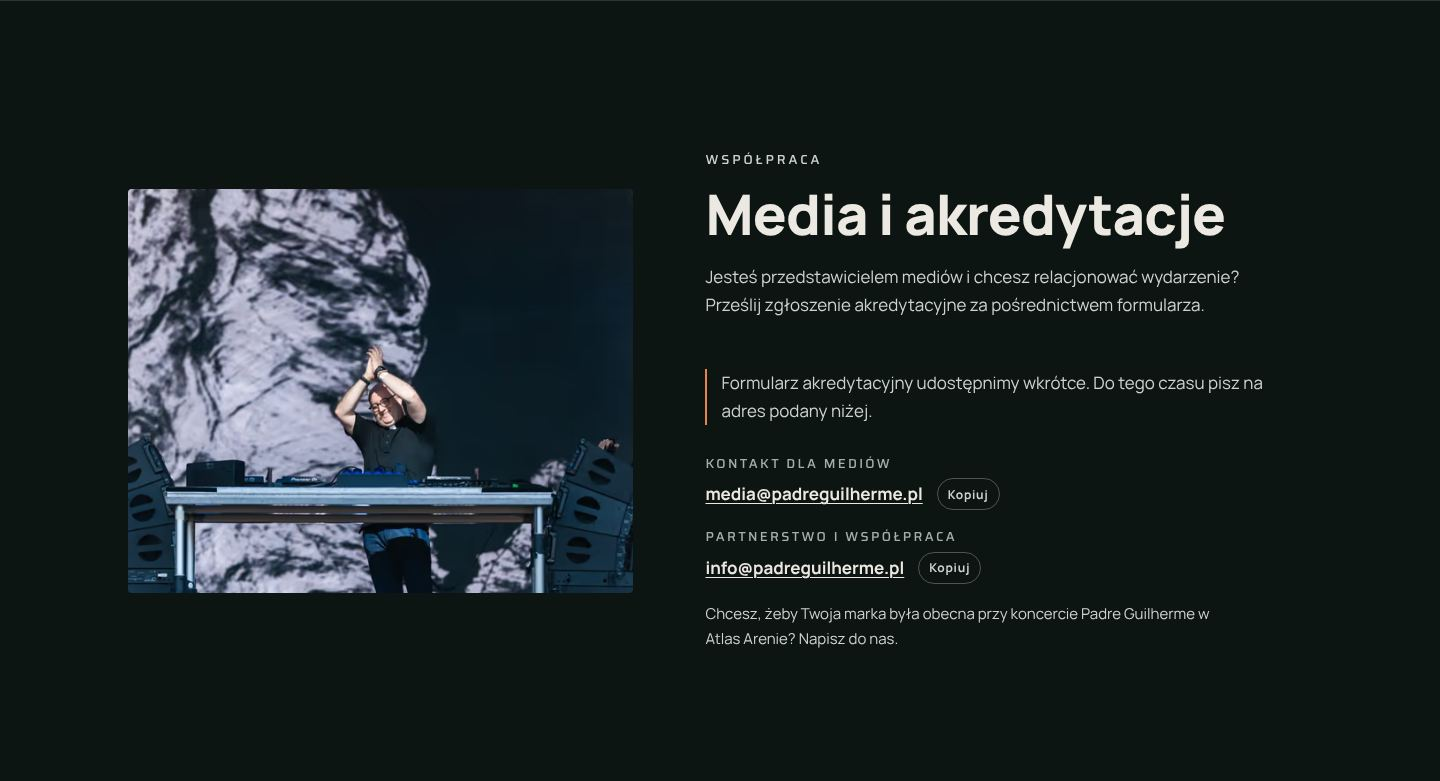
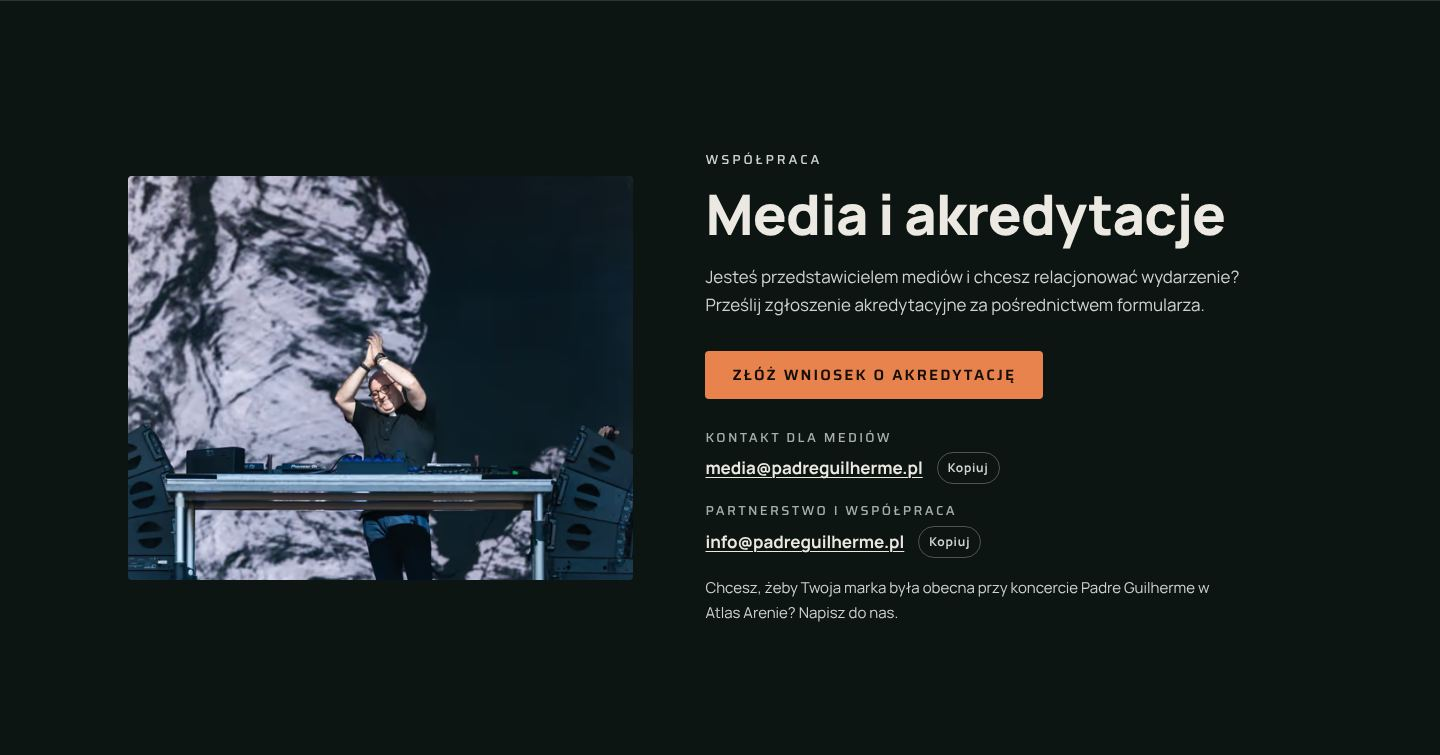
Usunięcie sekcji „Polska już go zna”, włączenie przycisku akredytacji
- sekcja „Polska już go zna. Teraz czas na Łódź.” usunięta w całości
  (szablon, style, konfiguracja, testy, dokumentacja)
- karta TikToka „Pan jest pasterzem moim”: podpis „Polska” bez nazw innych miast
- przycisk „Złóż wniosek o akredytację” z adresem
  www.pressaccreditations.com/pl/live2listen/padreguilherme, wpisany też w HTML
- raport i lista do potwierdzenia: formularz akredytacyjny musi działać przed publikacją

Claude-Session: https://claude.ai/code/session_01VWmRaWMyJhCKSyv75ZwcSc

diff --git a/index.html b/index.html
@@ -30,10 +30,10 @@
 <link rel="preload" href="assets/fonts/saira-latin.woff2" as="font" type="font/woff2" crossorigin>
 <link rel="preload" as="image" type="image/avif" imagesrcset="assets/img/hero-m-600.avif 600w, assets/img/hero-m-900.avif 900w, assets/img/hero-m-1200.avif 1200w" imagesizes="100vw" media="(max-width: 767px)" fetchpriority="high">
 <link rel="preload" as="image" type="image/avif" imagesrcset="assets/img/hero-960.avif 960w, assets/img/hero-1440.avif 1440w, assets/img/hero-1920.avif 1920w, assets/img/hero-2400.avif 2400w" imagesizes="100vw" media="(min-width: 768px)" fetchpriority="high">
-<link rel="stylesheet" href="assets/css/main.css?v=6b5c88da">
-<script src="assets/js/config.js?v=7d36cf71"></script>
+<link rel="stylesheet" href="assets/css/main.css?v=f46b392a">
+<script src="assets/js/config.js?v=50055b27"></script>
 <script>document.documentElement.classList.add('js');setTimeout(function(){if(!window.__pgReady)document.documentElement.classList.remove('js');},3000);</script>
-<script src="assets/js/main.js?v=352018d3" defer></script>
+<script src="assets/js/main.js?v=a545f683" defer></script>
 <script type="application/ld+json">{"@context":"https://schema.org","@type":"MusicEvent","name":"Padre Guilherme — Love is My Religion | Atlas Arena, Łódź","description":"Koncert Padre Guilherme w Atlas Arenie w Łodzi. Support: Skytech.","startDate":"2027-02-14","eventStatus":"https://schema.org/EventScheduled","eventAttendanceMode":"https://schema.org/OfflineEventAttendanceMode","url":"https://padreguilherme.pl/","image":["https://padreguilherme.pl/assets/og-image.jpg","https://padreguilherme.pl/assets/img/hero-1920.jpg"],"location":{"@type":"Place","name":"Atlas Arena","address":{"@type":"PostalAddress","streetAddress":"al. Bandurskiego 7","postalCode":"94-020","addressLocality":"Łódź","addressCountry":"PL"}},"performer":[{"@type":"Person","name":"Padre Guilherme","sameAs":["https://www.instagram.com/padre.guilherme/","https://www.tiktok.com/@padreguilherme","https://www.youtube.com/channel/UC8fYSaK9MMAvDmWIOZ2r1Yw","https://open.spotify.com/artist/7Gl7M2tjlIWsDWYa061TWh"]},{"@type":"Person","name":"Skytech","url":"http://skytechmusic.com"}],"organizer":{"@type":"Organization","name":"Live2Listen","url":"https://www.live2listen.com"}}</script>
 </head>
 <body>
@@ -159,8 +159,8 @@
       </li>
       <li class="viral__item reveal" style="--i:4">
         <a class="viral__card viral__card--pl" href="https://www.tiktok.com/@padreguilherme/video/7650860801443499297" target="_blank" rel="noopener" data-media="tiktok-polska">
-          <span class="viral__thumb"><picture><source type="image/avif" srcset="assets/img/tiktok-polska-270.avif 270w, assets/img/tiktok-polska-540.avif 540w" sizes="(min-width: 1200px) 200px, (min-width: 768px) 30vw, 46vw"><img src="assets/img/tiktok-polska-540.jpg" srcset="assets/img/tiktok-polska-270.jpg 270w, assets/img/tiktok-polska-540.jpg 540w" sizes="(min-width: 1200px) 200px, (min-width: 768px) 30vw, 46vw" width="540" height="960" alt="Kadr z nagrania: publiczność pod sceną podczas występu Padre Guilherme na ING Silesia Beats w Chorzowie" loading="lazy" decoding="async"></picture><span class="play" aria-hidden="true"><svg class="icon" aria-hidden="true" width="14" height="14" viewBox="0 0 24 24" fill="currentColor"><path d="M7 4.5v15l13-7.5z"/></svg></span></span>
-          <span class="viral__meta"><span class="viral__place">„Pan jest pasterzem moim”</span><span class="viral__where">ING Silesia Beats, Chorzów</span><span class="viral__views"><span data-count="12.4">12,4</span> mln wyświetleń</span></span>
+          <span class="viral__thumb"><picture><source type="image/avif" srcset="assets/img/tiktok-polska-270.avif 270w, assets/img/tiktok-polska-540.avif 540w" sizes="(min-width: 1200px) 200px, (min-width: 768px) 30vw, 46vw"><img src="assets/img/tiktok-polska-540.jpg" srcset="assets/img/tiktok-polska-270.jpg 270w, assets/img/tiktok-polska-540.jpg 540w" sizes="(min-width: 1200px) 200px, (min-width: 768px) 30vw, 46vw" width="540" height="960" alt="Kadr z nagrania: publiczność pod sceną podczas koncertu Padre Guilherme w Polsce" loading="lazy" decoding="async"></picture><span class="play" aria-hidden="true"><svg class="icon" aria-hidden="true" width="14" height="14" viewBox="0 0 24 24" fill="currentColor"><path d="M7 4.5v15l13-7.5z"/></svg></span></span>
+          <span class="viral__meta"><span class="viral__place">„Pan jest pasterzem moim”</span><span class="viral__where">Polska</span><span class="viral__views"><span data-count="12.4">12,4</span> mln wyświetleń</span></span>
           <span class="visually-hidden">(TikTok, otwiera się w nowej karcie)</span>
         </a>
       </li>
@@ -639,10 +639,9 @@
       <h2 class="h2 reveal" id="media-title">Media i akredytacje</h2>
       <p class="reveal">Jesteś przedstawicielem mediów i chcesz relacjonować wydarzenie? Prześlij zgłoszenie akredytacyjne za pośrednictwem formularza.</p>
       <div class="cta-row reveal">
-        <a class="btn btn--primary" href="#media" data-accreditation hidden>Złóż wniosek o akredytację</a>
+        <a class="btn btn--primary" href="https://www.pressaccreditations.com/pl/live2listen/padreguilherme" target="_blank" rel="noopener" data-accreditation>Złóż wniosek o akredytację</a>
         <a class="btn btn--ghost" href="#media" data-presskit hidden target="_blank" rel="noopener">Pobierz press pack</a>
       </div>
-      <p class="media__pending reveal" data-accreditation-pending>Formularz akredytacyjny udostępnimy wkrótce. Do tego czasu pisz na adres podany niżej.</p>
       <dl class="contacts reveal">
         <div><dt>Kontakt dla mediów</dt><dd><a href="mailto:media@padreguilherme.pl">media@padreguilherme.pl</a> <button class="copy" type="button" data-copy="media@padreguilherme.pl">Kopiuj</button></dd></div>
         <div><dt>Partnerstwo i współpraca</dt><dd><a href="mailto:info@padreguilherme.pl">info@padreguilherme.pl</a> <button class="copy" type="button" data-copy="info@padreguilherme.pl">Kopiuj</button></dd></div>

diff --git a/src/index.html b/src/index.html
@@ -195,40 +195,6 @@
   </div>
 </section>
 
-<!-- POLSKA (komponent gotowy, publikowany po zatwierdzeniu) -->
-<section class="section poland" id="polska" aria-labelledby="poland-title" data-section="poland" hidden>
-  <div class="wrap">
-    <p class="preview-note note-box">Sekcja przygotowana, domyślnie wyłączona (<code>sections.poland</code>). Brakuje zatwierdzonych zdjęć z polskich koncertów, a wcześniej padła decyzja, by komunikować wyłącznie Łódź. Podpisy oparte na źródłach z arkusza „Padre w Polsce”.</p>
-    <div class="section-head">
-      <div>
-        <p class="kicker reveal">Padre Guilherme w Polsce</p>
-        <h2 class="h2 reveal" id="poland-title">Polska już go zna. Teraz czas na Łódź.</h2>
-      </div>
-      <p class="section-head__aside reveal">W 2026 roku Padre Guilherme zagrał w Chorzowie, Gdańsku i Opolu. 14 lutego 2027 roku wraca do Polski z koncertem w Atlas Arenie.</p>
-    </div>
-    <ul class="poland__grid">
-      <li class="poland__item poland__item--big reveal">
-        <figure>
-          <div class="poland__photo" data-photo-slot>Miejsce na zatwierdzone zdjęcie</div>
-          <figcaption><span class="poland__city">Chorzów</span><span class="poland__event">ING Silesia Beats</span><span class="poland__year">2026</span></figcaption>
-        </figure>
-      </li>
-      <li class="poland__item reveal">
-        <figure>
-          <div class="poland__photo" data-photo-slot>Miejsce na zatwierdzone zdjęcie</div>
-          <figcaption><span class="poland__city">Gdańsk</span><span class="poland__event">Prosta Droga do Boga, ERGO Arena</span><span class="poland__year">2026</span></figcaption>
-        </figure>
-      </li>
-      <li class="poland__item reveal">
-        <figure>
-          <div class="poland__photo" data-photo-slot>Miejsce na zatwierdzone zdjęcie</div>
-          <figcaption><span class="poland__city">Opole</span><span class="poland__event">Itaka Arena</span><span class="poland__year">2026</span></figcaption>
-        </figure>
-      </li>
-    </ul>
-  </div>
-</section>
-
 <!-- GALERIA EDYTORSKA -->
 <section class="section gallery" id="galeria" aria-labelledby="gallery-title">
   <div class="wrap">
@@ -421,7 +387,7 @@
         <a class="btn btn--ghost" href="#media" data-presskit hidden target="_blank" rel="noopener">Pobierz press pack</a>
       </div>
       <p class="media__pending reveal" data-accreditation-pending>Formularz akredytacyjny udostępnimy wkrótce. Do tego czasu pisz na adres podany niżej.</p>
-      <p class="preview-note note-box">Akredytacje: adres pressaccreditations.com/pl/live2listen/padreguilherme 11.10.2026 zwracał błąd certyfikatu i HTTP 404 — przycisk ukryty do czasu potwierdzenia. Press pack: brak zatwierdzonego pliku.</p>
+      <p class="preview-note note-box">Akredytacje: adres potwierdzony przez zespół (www.pressaccreditations.com/pl/live2listen/padreguilherme). 11.10.2026 strona jeszcze nie działała: certyfikat TLS nie pasuje do domeny, HTTP 404. Musi działać przed publikacją. Press pack: brak zatwierdzonego pliku, przycisk ukryty.</p>
       <dl class="contacts reveal">
         <div><dt>Kontakt dla mediów</dt><dd><a href="mailto:media@padreguilherme.pl">media@padreguilherme.pl</a> <button class="copy" type="button" data-copy="media@padreguilherme.pl">Kopiuj</button></dd></div>
         <div><dt>Partnerstwo i współpraca</dt><dd><a href="mailto:info@padreguilherme.pl">info@padreguilherme.pl</a> <button class="copy" type="button" data-copy="info@padreguilherme.pl">Kopiuj</button></dd></div>

diff --git a/assets/css/main.css b/assets/css/main.css
@@ -359,22 +359,6 @@ a:hover .play, a:focus-visible .play { background: var(--accent); color: var(--i
 .expander__inner > :last-child { margin-bottom: 22px; }
 .no-anim .expander__panel, .no-anim .acc__panel { transition: none; }
 
-/* ==== Polska ==== */
-.poland__grid { display: grid; gap: 16px; grid-template-columns: repeat(2, minmax(0, 1fr)); }
-.poland__item--big { grid-column: 1 / -1; }
-.poland__item figure { margin: 0; }
-.poland__photo { display: flex; align-items: center; justify-content: center; aspect-ratio: 4 / 3; padding: 16px; border: 1px dashed var(--line-2); border-radius: var(--radius); color: var(--fg-3); font-size: 0.8125rem; text-align: center; background: var(--bg-2); }
-.poland__item figcaption { display: flex; flex-wrap: wrap; gap: 4px 12px; margin-top: 10px; font-family: var(--f-display); font-size: 0.8125rem; letter-spacing: 0.14em; text-transform: uppercase; }
-.poland__city { color: var(--fg); font-weight: 600; }
-.poland__event { color: var(--fg-3); }
-.poland__year { color: var(--accent); }
-@media (min-width: 960px) {
-  .poland__grid { grid-template-columns: minmax(0, 7fr) minmax(0, 5fr); grid-template-rows: auto auto; }
-  .poland__item--big { grid-column: 1; grid-row: 1 / span 2; }
-  .poland__item--big figure { height: 100%; display: flex; flex-direction: column; }
-  .poland__item--big .poland__photo { aspect-ratio: auto; flex: 1; min-height: 360px; }
-}
-
 /* ==== Galeria edytorska ==== */
 .gallery__grid { display: grid; grid-template-columns: repeat(2, minmax(0, 1fr)); gap: 10px; }
 .gallery__item { min-width: 0; }
@@ -627,7 +611,6 @@ a:hover .play, a:focus-visible .play { background: var(--accent); color: var(--i
 .note-box::before { content: 'Do potwierdzenia · '; font-weight: 800; letter-spacing: 0.04em; }
 .preview-bar { position: relative; z-index: 60; padding: 10px var(--gutter); background: var(--warn); color: #241A00; font-size: 0.8125rem; line-height: 1.45; text-align: center; }
 .is-preview .preview-bar { display: block; }
-.is-preview .poland .note-box { margin: 0 0 32px; }
 
 /* ==== Ograniczony ruch ==== */
 @media (prefers-reduced-motion: reduce) {

diff --git a/assets/js/config.js b/assets/js/config.js
@@ -13,10 +13,11 @@ window.PADRE_CONFIG = {
   // Dopisuje utm_* z adresu strony do linku eBilet (atrybucja kampanii po stronie sprzedawcy).
   passUtmToTicketUrl: true,
 
-  // Press Accreditations (Live2Listen). 11.10.2026 adres zwracał błąd certyfikatu TLS i HTTP 404,
-  // dlatego przycisk jest wyłączony. Po potwierdzeniu działania ustaw accreditationReady: true.
+  // Press Accreditations (Live2Listen) — adres potwierdzony przez zespół projektu.
+  // 11.10.2026 strona jeszcze nie działała (certyfikat TLS nie pasuje do domeny, HTTP 404):
+  // przed publikacją sprawdź, czy formularz jest dostępny. accreditationReady: false ukrywa przycisk.
   accreditationUrl: 'https://www.pressaccreditations.com/pl/live2listen/padreguilherme',
-  accreditationReady: false,
+  accreditationReady: true,
 
   // Zatwierdzony press pack (PDF lub folder). Przycisk pojawi się dopiero po wpisaniu adresu.
   pressPackUrl: '',
@@ -31,13 +32,6 @@ window.PADRE_CONFIG = {
   ga4Id: '',
   metaPixelId: '',
   privacyPolicyUrl: 'https://www.live2listen.com/prywatnosc',
-
-  // Sekcje wymagające akceptacji.
-  sections: {
-    // „Polska już go zna” — gotowy komponent; wyłączony, dopóki nie ma zatwierdzonych zdjęć
-    // z polskich koncertów (wymóg briefu) i decyzji managementu (wcześniej: „skupiamy się na Łodzi”).
-    poland: false
-  },
 
   // Odliczanie do otwarcia bram (godzina do potwierdzenia przez organizatora).
   countdownTarget: '2027-02-14T18:00:00+01:00'

diff --git a/assets/js/main.js b/assets/js/main.js
@@ -6,7 +6,6 @@
   var doc = document;
   var root = doc.documentElement;
   var cfg = Object.assign({}, window.PADRE_CONFIG || {}, window.PADRE_CONFIG_OVERRIDE || {});
-  cfg.sections = Object.assign({}, (window.PADRE_CONFIG || {}).sections, (window.PADRE_CONFIG_OVERRIDE || {}).sections);
 
   var mqReduced = window.matchMedia('(prefers-reduced-motion: reduce)');
   var mqMotionDesktop = window.matchMedia('(min-width: 960px) and (hover: hover) and (pointer: fine)');

diff --git a/docs/RAPORT.md b/docs/RAPORT.md
@@ -12,7 +12,8 @@ Kod jest gotowy i przetestowany, ale strona nie może jeszcze wyjść na produkc
 
 1. **Brak linku do wydarzenia w eBilet.** Przyciski „Kup bilet” prowadzą na razie do sekcji biletów z komunikatem. Wpisanie linku w `config.js` przełącza wszystkie przyciski naraz.
 2. **Domena padreguilherme.pl nie ma hostingu (brak rekordu A) ani poczty (brak rekordu MX).** Adresy info@ i media@ podane na stronie nie odbiorą wiadomości, dopóki skrzynki nie zostaną skonfigurowane.
-3. Treści wymagające decyzji managementu: plakat z hasłem „Pierwsze headline show”, sekcja „Polska już go zna”, harmonogram, kategorie biletów.
+3. Treści wymagające decyzji managementu: plakat z hasłem „Pierwsze headline show”, harmonogram, kategorie biletów.
+4. Strona formularza akredytacyjnego (adres potwierdzony) 11.10.2026 jeszcze nie działała: certyfikat TLS nie pasuje do domeny, HTTP 404.
 
 Pełna lista: [DO-POTWIERDZENIA.md](DO-POTWIERDZENIA.md).
 
@@ -28,16 +29,15 @@ Poprzednia wersja (kanwa projektowa) została przeniesiona do samodzielnej, stat
 3. TikTok: sześć najczęściej oglądanych nagrań (miniatura, miejsce, liczba wyświetleń, ikona odtwarzania, link do oryginału).
 4. DJ Mag Top 100 DJs 2026: duże „#79”, „New entry”, zdanie z briefu, informacja, że ranking powstaje z głosowania fanów.
 5. Biografia: widoczny tekst skrócony z 219 do 88 słów; dalsza część historii (ŚDM, festiwale, DJ Mag) pod przyciskiem „Poznaj historię Padre”; na końcu „Kup bilet”.
-6. „Polska już go zna. Teraz czas na Łódź.”: gotowy komponent, **wyłączony** (patrz G).
-7. Galeria edytorska: asymetryczny układ (duże, dwa mniejsze, szerokie, trzy), lightbox.
-8. Wybrane wydarzenia: 10 plakatów z linkami do stron wydarzeń, przewijana szyna.
-9. Love is My Religion: pełnoekranowe zdjęcie z paralaksą i przyciskiem „Kup bilet”.
-10. Skytech jako Official support: zdjęcie, opis, skytechmusic.com, miniatura wideo YouTube (link, bez osadzania).
-11. Plan wieczoru.
-12. Informacje i bilety: karta biletowa (na telefonie przed listą informacji), dane praktyczne, regulamin, oświadczenie opiekuna.
-13. FAQ: 12 pytań w kolejności z briefu i „Pozostałe pytania” z FAQ organizatora.
-14. Media i akredytacje oraz kontakt w sprawie partnerstwa.
-15. Końcowe CTA i stopka (role podmiotów, dane organizatora, linki prawne, kanały oficjalne).
+6. Galeria edytorska: asymetryczny układ (duże, dwa mniejsze, szerokie, trzy), lightbox.
+7. Wybrane wydarzenia: 10 plakatów z linkami do stron wydarzeń, przewijana szyna.
+8. Love is My Religion: pełnoekranowe zdjęcie z paralaksą i przyciskiem „Kup bilet”.
+9. Skytech jako Official support: zdjęcie, opis, skytechmusic.com, miniatura wideo YouTube (link, bez osadzania).
+10. Plan wieczoru.
+11. Informacje i bilety: karta biletowa (na telefonie przed listą informacji), dane praktyczne, regulamin, oświadczenie opiekuna.
+12. FAQ: 12 pytań w kolejności z briefu i „Pozostałe pytania” z FAQ organizatora.
+13. Media i akredytacje (przycisk „Złóż wniosek o akredytację”) oraz kontakt w sprawie partnerstwa.
+14. Końcowe CTA i stopka (role podmiotów, dane organizatora, linki prawne, kanały oficjalne).
 
 **Usunięte lub zablokowane, bo były niezgodne z briefem:**
 - „Pierwsze headline show Padre Guilherme w Polsce!” (hero, sekcja show, karta partnerstwa) i plakat z tym hasłem.
@@ -113,7 +113,7 @@ Jeden system ruchu, tylko `transform` i `opacity`, wszystko wyłączone przy `pr
 | Integracja | Stan | Uwagi |
 |------------|------|-------|
 | eBilet (link do wydarzenia) | ❌ niegotowe | brak adresu, punkt podłączenia: `ticketUrl` |
-| Press Accreditations | ❌ niegotowe | adres zwracał błąd TLS i 404; przycisk ukryty; `accreditationReady` |
+| Press Accreditations | ⚠ przycisk włączony | adres potwierdzony (www.pressaccreditations.com/pl/live2listen/padreguilherme); 11.10.2026 strona zwracała błąd certyfikatu TLS i HTTP 404, musi działać przed publikacją |
 | Press pack | ❌ brak pliku | przycisk pojawi się z `pressPackUrl` |
 | Newsletter | ❌ brak backendu | formularz gotowy i przetestowany na symulowanym serwerze (sukces tylko przy 2xx) |
 | GA4 / GTM / Meta Pixel | ⏸ gotowe do podłączenia | brak ID; Consent Mode v2, ładowanie po zgodzie, zdarzenia: [ANALITYKA.md](ANALITYKA.md) |
@@ -125,20 +125,19 @@ Jeden system ruchu, tylko `transform` i `opacity`, wszystko wyłączone przy `pr
 
 1. Link do wydarzenia w eBilet.
 2. Hosting i poczta dla padreguilherme.pl (rekordy A i MX) albo inna domena i adresy kontaktowe.
-3. Działający adres formularza akredytacyjnego.
+3. Uruchomiona strona formularza akredytacyjnego pod potwierdzonym adresem (dziś: błąd certyfikatu i 404).
 4. Zatwierdzony press pack.
 5. Potwierdzone kategorie i ceny biletów, informacja o miejscach siedzących i VIP.
 6. Potwierdzenie harmonogramu i nazwa supportu o 19:00.
-7. **Zdjęcia z polskich koncertów** (Chorzów, ING Silesia Beats, 12.06.2026; Gdańsk, ERGO Arena, 15.08.2026; Opole, Itaka Arena, 4.09.2026) z prawami do publikacji oraz decyzja managementu, czy publikować sekcję „Polska już go zna”. Uwaga: wcześniej padła instrukcja „Nie piszemy o innych miastach w Polsce”, a brief prosi o tę sekcję. Komponent jest gotowy i włącza się jednym ustawieniem.
-8. Nowa wersja plakatu bez hasła „Pierwsze headline show” (obecny plakat nie jest używany).
-9. Miejsca, daty i autorzy zdjęć w galerii.
-10. Identyfikatory GTM/GA4/Meta i polityka prywatności dla tej domeny (administrator danych).
-11. Oficjalne linki do muzyki Skytecha (Spotify, YouTube), jeśli mają być na stronie.
-12. Wskazówki dojazdu i parkingu, kontakt w sprawie dostępności.
+7. Nowa wersja plakatu bez hasła „Pierwsze headline show” (obecny plakat nie jest używany).
+8. Miejsca, daty i autorzy zdjęć w galerii.
+9. Identyfikatory GTM/GA4/Meta i polityka prywatności dla tej domeny (administrator danych).
+10. Oficjalne linki do muzyki Skytecha (Spotify, YouTube), jeśli mają być na stronie.
+11. Wskazówki dojazdu i parkingu, kontakt w sprawie dostępności.
 
 ## H. Testy
 
-**Automatyczne: `npm test` — 94/94 zaliczone** (Playwright, Chromium 141):
+**Automatyczne: `npm test` — 97/97 zaliczone** (Playwright, Chromium 141):
 - produkcyjny HTML: brak zakazanych sformułowań, brak notatek podglądu, brak linku do strony głównej eBilet, poprawne title, description, canonical, OG, JSON-LD;
 - desktop 1440: jeden H1, hierarchia nagłówków, 8 przycisków „Kup bilet” o jednej nazwie (+ link w stopce), brak poziomego przewijania, brak błędów w konsoli, wszystkie obrazy z `alt`;
 - lightbox: otwieranie, fokus, strzałki, zapętlenie, pułapka fokusu, ESC, powrót fokusu; gest przesunięcia na telefonie;
@@ -170,11 +169,16 @@ W `docs/screenshots/`:
 - **Przed:** `przed-desktop-hero.jpg`, `przed-desktop-calosc.jpg`, `przed-mobile-hero.jpg`, `przed-mobile-calosc.jpg` (statyczny render kanwy v1 z tymi samymi zdjęciami).
 - **Po, komputer:** `po-desktop-hero`, `-tiktok`, `-djmag`, `-bio`, `-galeria`, `-lightbox`, `-love`, `-skytech`, `-bilety`, `-faq`, `-media`, `-stopka`.
 - **Po, telefon:** `po-mobile-hero`, `-menu`, `-sticky`, `-tiktok`, `-galeria`, `-lightbox`, `-bilety`, `-final`.
-- **Podgląd z notatkami:** `podglad-desktop-notatki`, `podglad-desktop-bilety-notatki`, `podglad-desktop-polska`.
+- **Podgląd z notatkami:** `podglad-desktop-notatki`, `podglad-desktop-bilety-notatki`.
 
 ## J. Status
 
 **BLOCKED** do publikacji: brak linku eBilet oraz brak hostingu i poczty dla padreguilherme.pl.
-**NEEDS APPROVAL:** treści i decyzje z sekcji G (plakat, sekcja „Polska”, harmonogram, kategorie biletów, role partnerów).
+**NEEDS APPROVAL:** treści i decyzje z sekcji G (plakat, harmonogram, kategorie biletów, role partnerów) oraz działający formularz akredytacyjny.
 
 Po dostarczeniu punktów 1–2 z sekcji G i akceptacji treści: `npm run html`, `npm test`, Lighthouse na docelowym serwerze. Wtedy strona może dostać status READY.
+
+## Zmiany po uwagach zespołu (11.10.2026)
+
+- Sekcja „Polska już go zna. Teraz czas na Łódź.” usunięta w całości (szablon, style, konfiguracja, notatki). Karta TikToka z „Pan jest pasterzem moim” ma podpis „Polska”, bez nazw innych miast.
+- Akredytacje: przycisk „Złóż wniosek o akredytację” włączony z adresem www.pressaccreditations.com/pl/live2listen/padreguilherme (wpisany także w HTML, działa bez JavaScriptu).

diff --git a/docs/DO-POTWIERDZENIA.md b/docs/DO-POTWIERDZENIA.md
@@ -11,7 +11,7 @@ Legenda: **BLOKER**: bez tego strona nie powinna wyjść na produkcję. **WAŻNE
 | 1 | **Link do wydarzenia w eBilet** (konkretne wydarzenie, nie strona główna) | **BLOKER**: brak. Nie znaleźliśmy wydarzenia w eBilet; sprzedaż prawdopodobnie jeszcze nie ruszyła. Do tego czasu wszystkie przyciski „Kup bilet” prowadzą do sekcji #bilety z komunikatem. | `assets/js/config.js` → `ticketUrl`, potem `npm run html` | Live2Listen / eBilet |
 | 2 | **Domena padreguilherme.pl** | **BLOKER**: domena jest zarejestrowana (DNS home.pl), ale nie ma rekordu A (brak hostingu) ani **rekordu MX**. Canonical, Open Graph, sitemap i robots wskazują na `https://padreguilherme.pl/`. | `src/index.html` (canonical, og:url, og:image), `scripts/build-html.mjs` (`SITE_URL`), `robots.txt`, `sitemap.xml` | Booking Artist Agency |
 | 3 | **Skrzynki info@padreguilherme.pl i media@padreguilherme.pl** | **BLOKER**: bez rekordu MX poczta na te adresy nie zostanie dostarczona. Trzeba skonfigurować skrzynki albo podać inne adresy. | Treść strony (`src/index.html`, `src/content.mjs`) | Booking Artist Agency |
-| 4 | **Akredytacje: pressaccreditations.com/pl/live2listen/padreguilherme** | **WAŻNE**: 11.10.2026 adres zwracał błąd certyfikatu TLS i HTTP 404. Przycisk „Złóż wniosek o akredytację” jest ukryty, zamiast niego widać komunikat z adresem media@. | `config.js` → `accreditationUrl`, `accreditationReady: true` | Live2Listen |
+| 4 | **Akredytacje: www.pressaccreditations.com/pl/live2listen/padreguilherme** | **BLOKER**: adres potwierdzony, przycisk „Złóż wniosek o akredytację” jest włączony. 11.10.2026 strona nie działała: serwer zwraca certyfikat TLS niepasujący do domeny (przeglądarka pokaże ostrzeżenie) i HTTP 404. Przed publikacją formularz musi być dostępny; w razie opóźnienia ustaw `accreditationReady: false`. | `config.js` → `accreditationUrl`, `accreditationReady` | Live2Listen / Press Accreditations |
 | 5 | **Press pack** | **WAŻNE**: brak zatwierdzonego pliku. Przycisk „Pobierz press pack” pojawi się sam po wpisaniu adresu. | `config.js` → `pressPackUrl` | Management / Booking Artist Agency |
 | 6 | **Newsletter „Bądź na bieżąco”** | **OPCJA**: formularz jest gotowy (walidacja, zgoda, honeypot, obsługa błędów), ale wyłączony. Brakuje backendu, administratora danych i polityki prywatności dla zapisu. Poprzednia wersja pokazywała fałszywe „Zapisane”; usunięte. | `config.js` → `newsletterEndpoint`, `newsletterPrivacyUrl` | Organizator (administrator danych) |
 | 7 | **Analityka: GTM albo GA4, Meta Pixel** | **WAŻNE** przed kampanią: brak identyfikatorów. Kod zgody (Consent Mode v2) i zdarzenia są gotowe; baner zgody pojawi się sam po wpisaniu ID. | `config.js` → `gtmId` **albo** `ga4Id`, `metaPixelId` | Zespół marketingu |
@@ -30,12 +30,11 @@ Legenda: **BLOKER**: bez tego strona nie powinna wyjść na produkcję. **WAŻNE
 | 15 | **Ogólny kontakt do organizatora** | FAQ podaje hello@live2listen.com (adres z regulaminu, rozdział o szatni) i lost@live2listen.com (z FAQ Live2Listen). |
 | 16 | **Dojazd i parkingi** | Strona odsyła do atlasarena.pl. Jeśli organizator ma własne wskazówki (parking, komunikacja, wejścia), warto je dodać. |
 | 17 | **Dostępność dla osób z niepełnosprawnościami** | Odpowiedź oparta na FAQ Live2Listen. Brakuje kontaktu w sprawie dostępności i informacji Atlas Areny. |
-| 18 | **Sekcja „Polska już go zna. Teraz czas na Łódź.”** | Gotowy komponent, domyślnie **wyłączony** (`sections.poland: false`). Powody: (1) brak zatwierdzonych zdjęć z polskich koncertów (brief: nie publikować niekompletnej sekcji); (2) wcześniejsza decyzja: „Nie piszemy o innych miastach w Polsce, skupiamy się na Łodzi”. Potrzebna decyzja managementu i zdjęcia z Chorzowa, Gdańska i Opola (z prawami do publikacji). |
-| 19 | **Podpisy zdjęć w galerii** | Podpisy opisują kadr, bez nazw wydarzeń. Do uzupełnienia: miejsce, data i autor (fotograf) każdego zdjęcia oraz potwierdzenie praw do publikacji. |
-| 20 | **Liczby wyświetleń na TikToku** | Pobrane 11.10.2026 z oficjalnego profilu @padreguilherme. Przed startem warto je odświeżyć (zmieniają się codziennie). Strona nie sumuje wyświetleń. |
-| 21 | **DJ Mag #79** | Potwierdzone na djmag.com (profil artysty w Top 100 DJs 2026). Opis zaznacza, że ranking powstaje z głosowania fanów. |
-| 22 | **„Około 1,5 mln” na ŚDM w Lizbonie** | Szacunek podawany w mediach dla porannego setu 6.08.2023. |
-| 23 | **Skytech: linki do muzyki** | Strona skytechmusic.com działa, ale blokuje automatyczne sprawdzenie (CAPTCHA). Jeśli Skytech ma oficjalny Spotify lub YouTube, możemy je dodać. |
+| 18 | **Podpisy zdjęć w galerii** | Podpisy opisują kadr, bez nazw wydarzeń. Do uzupełnienia: miejsce, data i autor (fotograf) każdego zdjęcia oraz potwierdzenie praw do publikacji. |
+| 19 | **Liczby wyświetleń na TikToku** | Pobrane 11.10.2026 z oficjalnego profilu @padreguilherme. Przed startem warto je odświeżyć (zmieniają się codziennie). Strona nie sumuje wyświetleń. |
+| 20 | **DJ Mag #79** | Potwierdzone na djmag.com (profil artysty w Top 100 DJs 2026). Opis zaznacza, że ranking powstaje z głosowania fanów. |
+| 21 | **„Około 1,5 mln” na ŚDM w Lizbonie** | Szacunek podawany w mediach dla porannego setu 6.08.2023. |
+| 22 | **Skytech: linki do muzyki** | Strona skytechmusic.com działa, ale blokuje automatyczne sprawdzenie (CAPTCHA). Jeśli Skytech ma oficjalny Spotify lub YouTube, możemy je dodać. |
 
 ## Przed wdrożeniem (technika)
 

diff --git a/README.md b/README.md
@@ -44,11 +44,10 @@ Wszystko w `assets/js/config.js`, potem `npm run html`:
 | Ustawienie | Efekt |
 |------------|-------|
 | `ticketUrl` | Wszystkie przyciski „Kup bilet” prowadzą do wydarzenia w eBilet (nowa karta, z UTM). Bez tego prowadzą do sekcji #bilety. |
-| `accreditationUrl` + `accreditationReady: true` | Pokazuje przycisk „Złóż wniosek o akredytację”. |
+| `accreditationUrl` + `accreditationReady` | Przycisk „Złóż wniosek o akredytację” (obecnie włączony; `false` go ukrywa). |
 | `pressPackUrl` | Pokazuje przycisk „Pobierz press pack”. |
 | `newsletterEndpoint` | Pokazuje formularz „Bądź na bieżąco” (POST JSON `{ email, consent, source, campaign }`; sukces tylko przy odpowiedzi 2xx). |
 | `gtmId` albo `ga4Id`, `metaPixelId` | Włącza baner zgody i ładuje narzędzia dopiero po zgodzie. |
-| `sections.poland` | Publikuje sekcję „Polska już go zna” (wymaga zatwierdzonych zdjęć). |
 
 ## Wdrożenie
 
